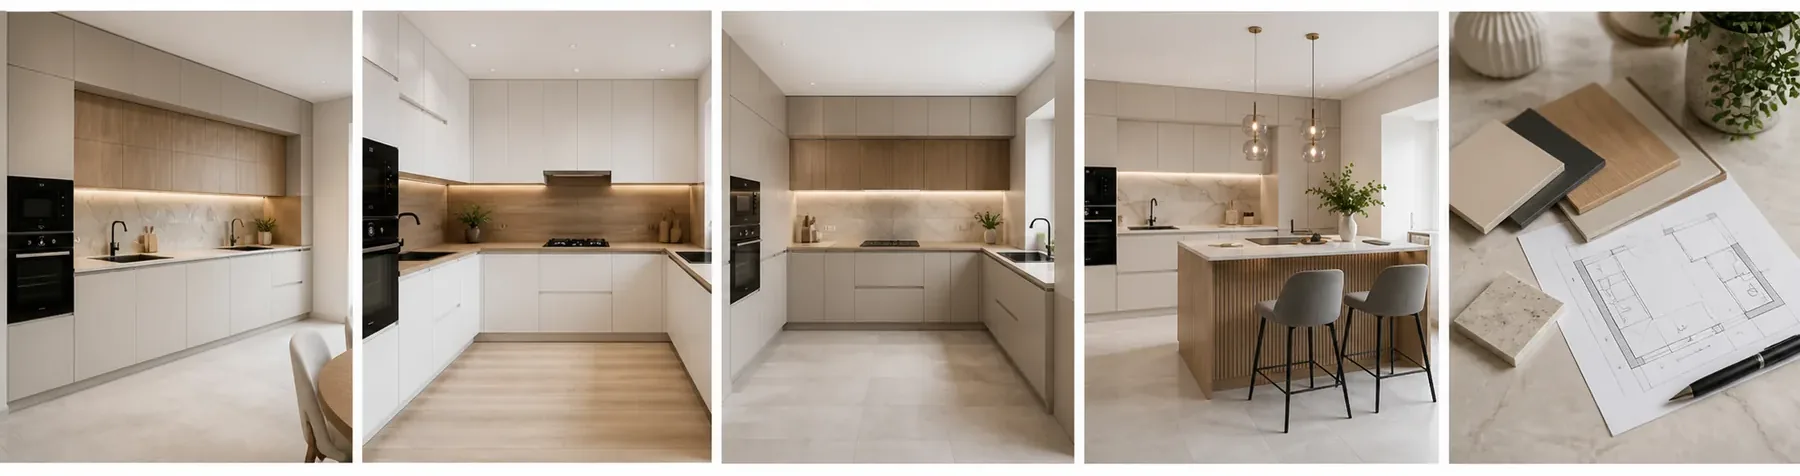
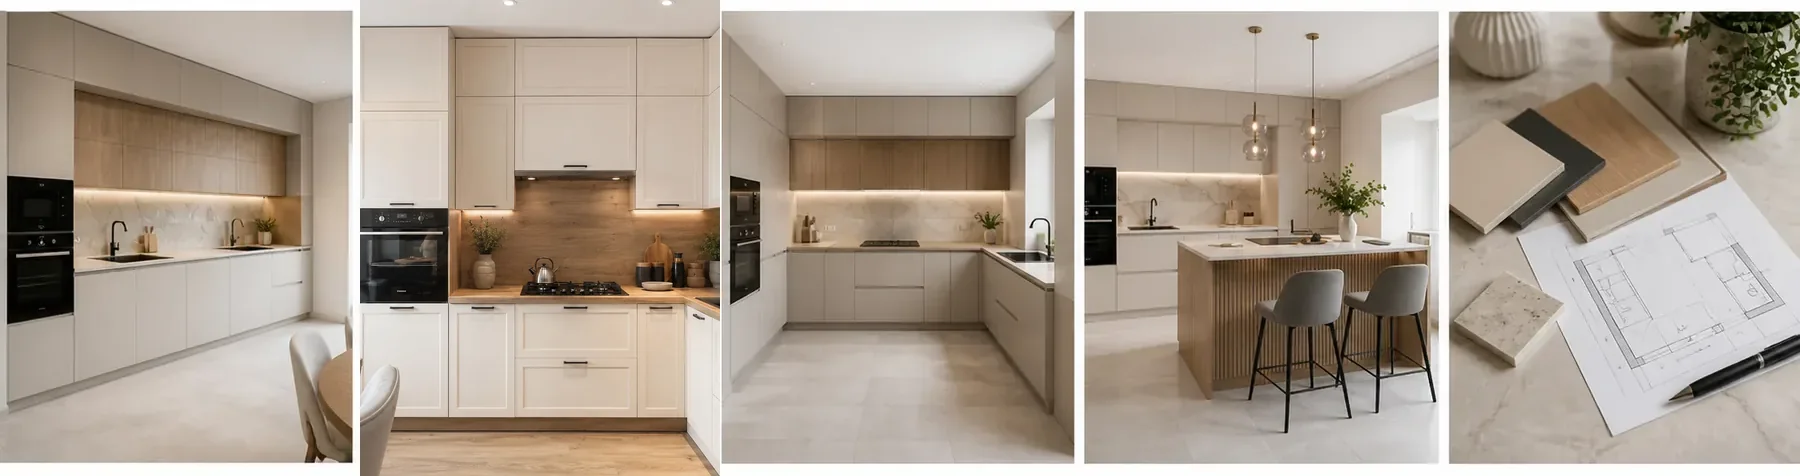
Polish mobile benefits and quiz hierarchy

Changed region(s): [[0.1867, 0.0, 0.4044, 1.0]]

diff --git a/styles.css b/styles.css
@@ -712,8 +712,16 @@ dd {
   gap: 18px;
 }
 
+.quiz-scroll-wrap {
+  position: relative;
+}
+
 .quiz-options.image {
   grid-template-columns: repeat(5, minmax(0, 1fr));
+}
+
+.quiz-scroll-hint {
+  display: none;
 }
 
 .quiz-options.radio {
@@ -783,20 +791,6 @@ dd {
 .quiz-options.image .quiz-option.selected .quiz-option-media::after {
   opacity: 1;
   background: rgba(18, 24, 31, 0.14);
-}
-
-.quiz-options.image .quiz-option.selected::after {
-  content: "";
-  position: absolute;
-  right: 16px;
-  top: 16px;
-  width: 18px;
-  height: 18px;
-  border: 3px solid #fff;
-  border-top: 0;
-  border-left: 0;
-  transform: rotate(45deg);
-  filter: drop-shadow(0 3px 8px rgba(0, 0, 0, 0.28));
 }
 
 .quiz-radio {
@@ -1931,6 +1925,9 @@ textarea:focus {
   }
 
   .benefits {
+    width: 100%;
+    align-self: stretch;
+    justify-self: stretch;
     display: grid;
     grid-template-columns: repeat(2, minmax(0, 1fr));
     gap: 8px;
@@ -1948,9 +1945,9 @@ textarea:focus {
   }
 
   .benefits article {
-    grid-template-columns: 32px minmax(0, 1fr);
+    grid-template-columns: 28px minmax(0, 1fr);
     align-items: center;
-    min-height: 60px;
+    min-height: 58px;
     gap: 9px;
     border: 1px solid var(--ui-border);
     border-radius: var(--ui-radius-md);
@@ -1961,16 +1958,18 @@ textarea:focus {
 
   .benefits p {
     min-width: 0;
+    height: 100%;
+    display: grid;
+    align-items: center;
     color: #4b535a;
     font-size: clamp(12px, 2.8vw, 13px);
     line-height: 1.16;
     font-weight: 720;
-    text-wrap: balance;
   }
 
   .benefit-icon {
-    width: 32px;
-    height: 32px;
+    width: 28px;
+    height: 28px;
     background: var(--ui-surface);
     border-color: var(--ui-border);
   }
@@ -2102,13 +2101,22 @@ textarea:focus {
   }
 
   .quiz-card {
-    min-height: 520px;
+    min-height: 500px;
     padding: 26px;
   }
 
+  .quiz-card.is-first-step {
+    min-height: 0;
+    grid-template-rows: auto auto;
+  }
+
+  .quiz-topline > span {
+    font-size: 12px;
+  }
+
   .quiz-body {
-    gap: 22px;
-    padding: 28px 0;
+    gap: 20px;
+    padding: 26px 0;
   }
 
   .quiz-options.image {
@@ -2116,7 +2124,12 @@ textarea:focus {
   }
 
   .quiz-question h2 {
-    font-size: clamp(28px, 5vw, 36px);
+    font-size: clamp(26px, 4.4vw, 32px);
+    line-height: 1.1;
+  }
+
+  .quiz-question p {
+    font-size: 14.5px;
   }
 
   .steps,
@@ -2437,28 +2450,65 @@ textarea:focus {
   }
 
   .quiz-card {
-    min-height: 520px;
+    min-height: 0;
+    grid-template-rows: auto auto auto;
     padding: 18px;
+  }
+
+  .quiz-card.is-first-step {
+    grid-template-rows: auto auto;
+  }
+
+  .quiz-topline {
+    gap: 10px;
+  }
+
+  .quiz-topline > span {
+    font-size: 12px;
+    letter-spacing: 0.015em;
   }
 
   .quiz-body {
     align-content: start;
-    gap: 18px;
-    padding: 24px 0 20px;
+    gap: 16px;
+    padding: 20px 0 16px;
   }
 
   .quiz-question h2 {
-    font-size: clamp(25px, 8vw, 32px);
+    font-size: clamp(24px, 6.6vw, 26px);
+    line-height: 1.08;
   }
 
   .quiz-question p {
     font-size: 14px;
+    line-height: 1.45;
+  }
+
+  .quiz-scroll-wrap {
+    margin-inline: -18px;
+  }
+
+  .quiz-scroll-wrap::after {
+    content: "";
+    position: absolute;
+    top: 0;
+    right: 0;
+    bottom: 8px;
+    width: 54px;
+    border-radius: 0 10px 10px 0;
+    background: linear-gradient(90deg, rgba(255, 255, 255, 0), #fff 72%);
+    opacity: 0;
+    pointer-events: none;
+    transition: opacity 160ms ease;
+  }
+
+  .quiz-scroll-wrap.can-scroll-next::after {
+    opacity: 1;
   }
 
   .quiz-options.image {
     display: flex;
     gap: 12px;
-    margin-inline: -18px;
     overflow-x: auto;
     padding: 0 18px 8px;
     scroll-snap-type: x mandatory;
@@ -2470,8 +2520,49 @@ textarea:focus {
   }
 
   .quiz-options.image .quiz-option {
-    flex: 0 0 min(184px, 58vw);
+    flex: 0 0 min(180px, 58vw);
     scroll-snap-align: start;
+  }
+
+  .quiz-scroll-hint {
+    position: absolute;
+    top: 45%;
+    z-index: 2;
+    width: 36px;
+    height: 36px;
+    place-items: center;
+    border: 1px solid var(--ui-border);
+    border-radius: 50%;
+    background: rgba(255, 255, 255, 0.94);
+    color: var(--ink);
+    box-shadow: 0 12px 28px rgba(18, 24, 30, 0.14);
+    cursor: pointer;
+    opacity: 0;
+    pointer-events: none;
+    transform: translateY(-50%);
+    transition: opacity 160ms ease, transform 160ms ease;
+  }
+
+  .quiz-scroll-hint span {
+    display: block;
+    transform: translateY(-1px);
+    font-size: 28px;
+    line-height: 1;
+  }
+
+  .quiz-scroll-hint.prev {
+    left: 8px;
+  }
+
+  .quiz-scroll-hint.next {
+    right: 8px;
+  }
+
+  .quiz-scroll-wrap.can-scroll-prev .quiz-scroll-hint.prev,
+  .quiz-scroll-wrap.can-scroll-next .quiz-scroll-hint.next {
+    display: grid;
+    opacity: 1;
+    pointer-events: auto;
   }
 
   .quiz-option strong {
@@ -2498,6 +2589,10 @@ textarea:focus {
     gap: 12px;
   }
 
+  .quiz-footer[hidden] {
+    display: none;
+  }
+
   .quiz-footer p {
     font-size: 12px;
   }
@@ -2517,15 +2612,19 @@ textarea:focus {
   }
 
   .benefits {
+    width: 100%;
+    align-self: stretch;
+    justify-self: stretch;
     display: grid;
     grid-template-columns: repeat(2, minmax(0, 1fr));
     gap: 8px;
+    margin-inline: 0;
   }
 
   .benefits article {
     grid-template-columns: 28px minmax(0, 1fr);
     flex-basis: auto;
-    min-height: 56px;
+    min-height: 58px;
     align-items: center;
     gap: 8px;
     padding: 9px 10px;
@@ -2533,7 +2632,10 @@ textarea:focus {
 
   .benefits p {
     min-width: 0;
+    height: 100%;
     min-height: auto;
+    display: grid;
+    align-items: center;
     color: #485058;
     font-size: clamp(11.5px, 3.25vw, 12.5px);
     line-height: 1.12;

diff --git a/script.js b/script.js
@@ -405,22 +405,26 @@ function escapeHtml(value) {
 }
 
 function renderQuiz() {
+  const card = qs(".quiz-card");
   const body = qs("[data-quiz-body]");
   const stepLabel = qs("[data-quiz-step]");
   const progress = qs("[data-quiz-progress]");
   const back = qs("[data-quiz-back]");
+  const footer = qs(".quiz-footer");
   const footerText = qs(".quiz-footer p");
-  if (!body || !stepLabel || !progress || !back || !footerText) return;
+  if (!body || !stepLabel || !progress || !back || !footer || !footerText) return;
 
   const step = quizSteps[quizIndex];
   stepLabel.textContent = `Шаг ${quizIndex + 1} / ${quizSteps.length}`;
   progress.style.width = `${((quizIndex + 1) / quizSteps.length) * 100}%`;
   back.disabled = quizIndex === 0;
   back.hidden = quizIndex === 0;
+  footer.hidden = quizIndex === 0;
+  card?.classList.toggle("is-first-step", quizIndex === 0);
   footerText.textContent =
     step.kind === "contact"
       ? "Заполните телефон, чтобы получить результат под вашу кухню."
-      : "Выберите вариант, и квиз перейдет дальше автоматически.";
+      : "Можно вернуться назад, если хотите изменить предыдущий ответ.";
 
   const note = step.note ? `<p>${step.note}</p>` : "";
   let content = `<div class="quiz-question"><h2 id="quizTitle">${step.title}</h2>${note}</div>`;
@@ -435,7 +439,16 @@ function renderQuiz() {
           </button>`
       )
       .join("");
-    content += `<div class="quiz-options image">${options}</div>`;
+    content += `
+      <div class="quiz-scroll-wrap" data-quiz-scroll-wrap>
+        <button class="quiz-scroll-hint prev" type="button" aria-label="Показать предыдущие варианты" data-quiz-scroll="prev">
+          <span aria-hidden="true">‹</span>
+        </button>
+        <div class="quiz-options image" data-quiz-options>${options}</div>
+        <button class="quiz-scroll-hint next" type="button" aria-label="Показать следующие варианты" data-quiz-scroll="next">
+          <span aria-hidden="true">›</span>
+        </button>
+      </div>`;
   }
 
   if (step.kind === "radio") {
@@ -472,6 +485,31 @@ function renderQuiz() {
   }
 
   body.innerHTML = content;
+  initQuizScroller();
+}
+
+function initQuizScroller() {
+  const wrap = qs("[data-quiz-scroll-wrap]");
+  const scroller = qs("[data-quiz-options]");
+  if (!wrap || !scroller) return;
+
+  const updateState = () => {
+    const maxScroll = scroller.scrollWidth - scroller.clientWidth - 2;
+    wrap.classList.toggle("can-scroll-prev", scroller.scrollLeft > 8);
+    wrap.classList.toggle("can-scroll-next", scroller.scrollLeft < maxScroll);
+  };
+
+  qsa("[data-quiz-scroll]").forEach((button) => {
+    button.addEventListener("click", () => {
+      const direction = button.dataset.quizScroll === "prev" ? -1 : 1;
+      const firstOption = scroller.querySelector(".quiz-option");
+      const step = firstOption ? firstOption.getBoundingClientRect().width + 12 : scroller.clientWidth * 0.7;
+      scroller.scrollBy({ left: direction * step, behavior: "smooth" });
+    });
+  });
+
+  scroller.addEventListener("scroll", () => requestAnimationFrame(updateState), { passive: true });
+  window.setTimeout(updateState, 0);
 }
 
 function goToQuizStep(index) {

diff --git a/UI_KIT.md b/UI_KIT.md
@@ -41,5 +41,7 @@
 
 - Не использовать горизонтальный overflow страницы.
 - Trust/benefit элементы должны иметь одинаковую высоту и единую внутреннюю сетку.
+- В mobile hero элементы benefits всегда растягиваются на ширину контейнера; не использовать `align-self: end`.
+- Внутренние заголовки quiz на mobile должны быть визуально меньше заголовка секции.
 - Важные CTA на мобильных занимают всю ширину контейнера.
 - Не дублировать подписи и логотипы: если wordmark уже содержит текст, рядом не добавлять тот же текст.
